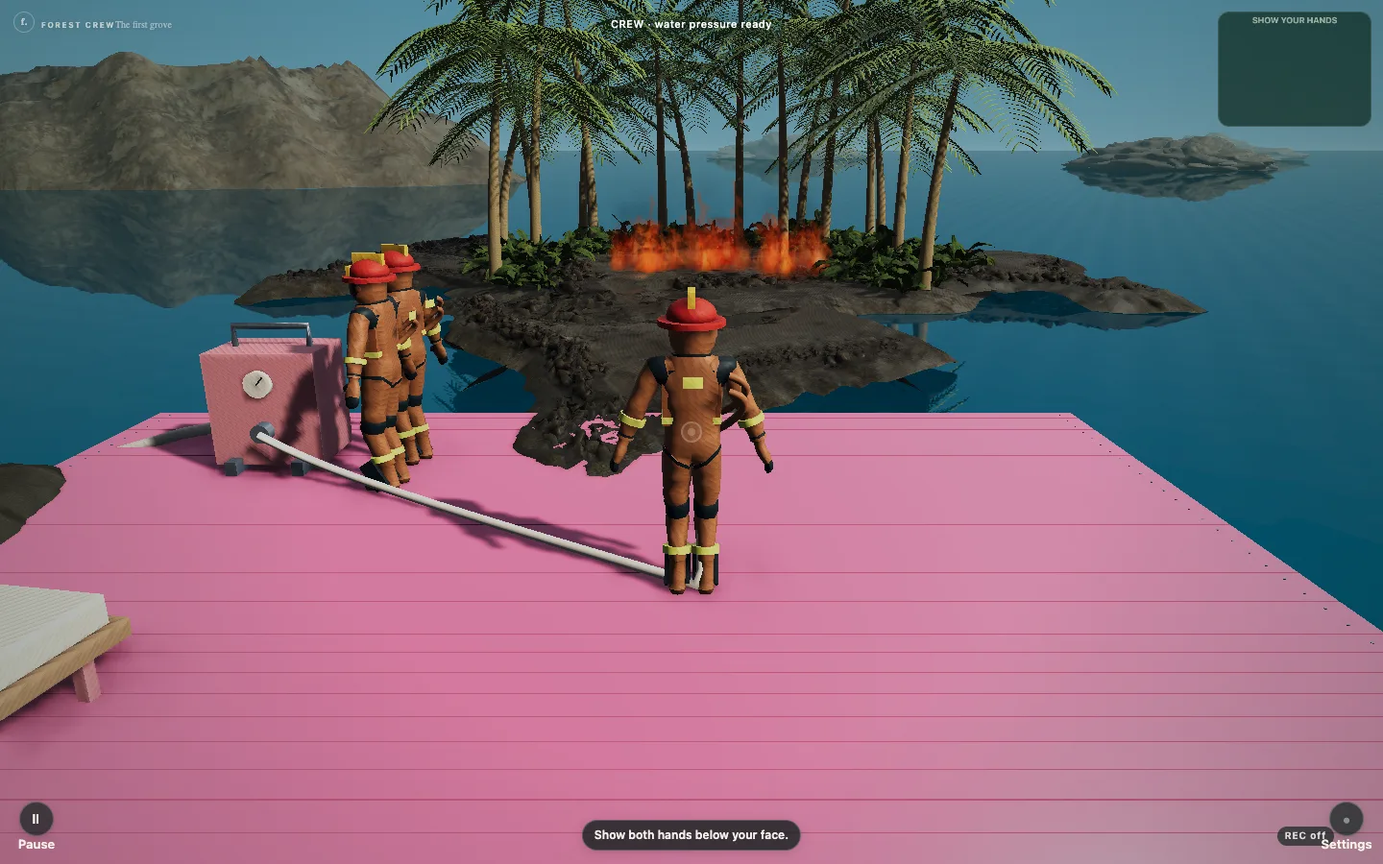
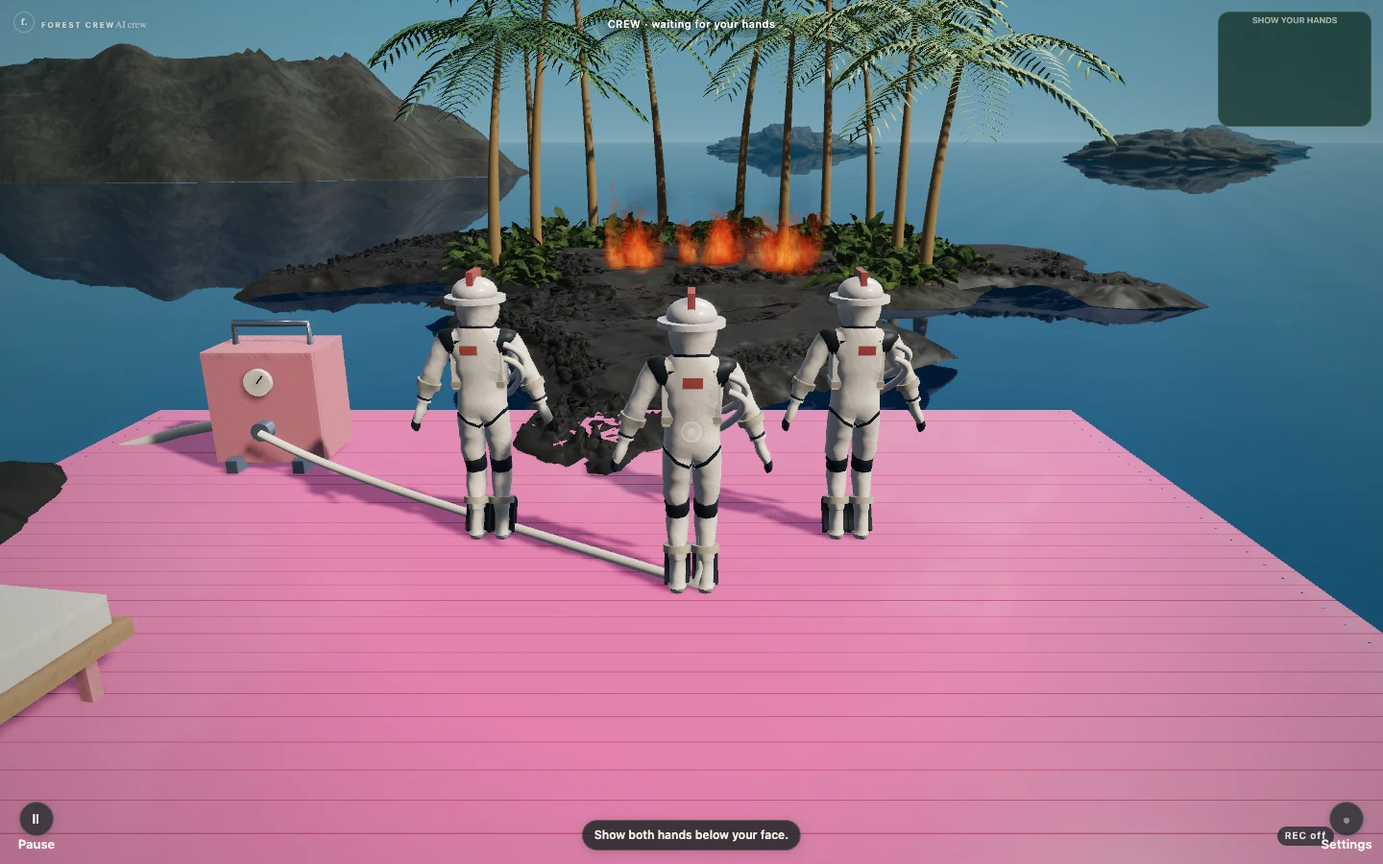
Show the waiting AI crew and publish the refined grove

diff --git a/projects-src/forest-crew/ai-crew/src/environment.ts b/projects-src/forest-crew/ai-crew/src/environment.ts
@@ -1,4 +1,4 @@
-import {Engine,Scene,Color3,Color4,Vector3,Vector4,HemisphericLight,DirectionalLight,FreeCamera,MeshBuilder,StandardMaterial,PBRMaterial,TransformNode,Mesh,VertexData,Texture,DynamicTexture,HDRCubeTexture,MirrorTexture,Plane,FresnelParameters,ShadowGenerator,DefaultRenderingPipeline,ParticleSystem,ShaderMaterial,ImportMeshAsync,Matrix,Quaternion,SSAO2RenderingPipeline} from '@babylonjs/core';
+import {Engine,Scene,Color3,Color4,Vector3,Vector4,HemisphericLight,DirectionalLight,FreeCamera,MeshBuilder,StandardMaterial,PBRMaterial,TransformNode,Mesh,VertexData,Texture,HDRCubeTexture,MirrorTexture,Plane,FresnelParameters,ShadowGenerator,DefaultRenderingPipeline,ParticleSystem,ShaderMaterial,ImportMeshAsync,Matrix,Quaternion,SSAO2RenderingPipeline} from '@babylonjs/core';
 
 import {createRenderQualityPolicy,renderQuality} from './render-quality.mjs';
 
@@ -11,23 +11,23 @@ export function createEnvironment(canvas:HTMLCanvasElement){
  const quality=()=>({...renderQuality({width:canvas.clientWidth,height:canvas.clientHeight,dpr:devicePixelRatio,mobile,maxSamples:engine.getCaps().maxMSAASamples,tier:performancePolicy.diagnostics().tier}),...performancePolicy.diagnostics()});
  engine.maxFPS=quality().maxFPS;
  engine.setHardwareScalingLevel(quality().hardwareScaling);
- const scene=new Scene(engine);scene.clearColor=new Color4(.53,.76,.82,1);
- scene.fogMode=Scene.FOGMODE_EXP2;scene.fogDensity=.0016;scene.fogColor=C('#99c4cb');
- scene.environmentTexture=new HDRCubeTexture(`${base}textures/sky.hdr`,scene,128,false,true,false,true);scene.environmentIntensity=.3;
+ const scene=new Scene(engine);scene.clearColor=new Color4(.22,.64,.86,1);
+ scene.fogMode=Scene.FOGMODE_EXP2;scene.fogDensity=.00115;scene.fogColor=C('#62b6da');
+ scene.environmentTexture=new HDRCubeTexture(`${base}textures/sky.hdr`,scene,128,false,true,false,true);scene.environmentIntensity=.48;
  const camera=new FreeCamera('embodied camera',new Vector3(0,3.4,-8.6),scene);camera.minZ=.08;camera.maxZ=1600;camera.fov=.88;camera.setTarget(new Vector3(0,1.35,0));
  const sky=MeshBuilder.CreateSphere('blue atmospheric sky',{diameter:2200,segments:32,sideOrientation:Mesh.BACKSIDE},scene);
- const skyMat=new ShaderMaterial('clear azure sky',scene,{vertexSource:`precision highp float; attribute vec3 position; uniform mat4 worldViewProjection; varying float height; void main(){height=normalize(position).y;gl_Position=worldViewProjection*vec4(position,1.0);}`,fragmentSource:`precision highp float; varying float height; void main(){float h=pow(clamp(height,0.0,1.0),0.42);vec3 horizon=vec3(0.26,0.48,0.58);vec3 zenith=vec3(0.01,0.25,0.42);gl_FragColor=vec4(mix(horizon,zenith,h),1.0);}`},{attributes:['position'],uniforms:['worldViewProjection']});skyMat.backFaceCulling=false;sky.material=skyMat;sky.isPickable=false;sky.infiniteDistance=true;sky.applyFog=false;
+ const skyMat=new ShaderMaterial('clear azure sky',scene,{vertexSource:`precision highp float; attribute vec3 position; uniform mat4 worldViewProjection; varying float height; void main(){height=normalize(position).y;gl_Position=worldViewProjection*vec4(position,1.0);}`,fragmentSource:`precision highp float; varying float height; void main(){float h=pow(clamp(height,0.0,1.0),0.42);vec3 horizon=vec3(.29,.53,.66);vec3 zenith=vec3(.012,.26,.46);gl_FragColor=vec4(mix(horizon,zenith,h),1.0);}`},{attributes:['position'],uniforms:['worldViewProjection']});skyMat.backFaceCulling=false;sky.material=skyMat;sky.isPickable=false;sky.infiniteDistance=true;sky.applyFog=false;
 
- const hemi=new HemisphericLight('blue sky fill',new Vector3(0,1,0),scene);hemi.intensity=.10;hemi.diffuse=C('#d6ecff');hemi.groundColor=C('#44443b');
- const sun=new DirectionalLight('late afternoon sun',new Vector3(-.7,-.65,.5),scene);sun.position.set(35,55,-35);sun.intensity=6.5;sun.diffuse=C('#fff0d4');sun.shadowMinZ=35;sun.shadowMaxZ=115;
- const shadows=new ShadowGenerator(2048,sun);shadows.usePercentageCloserFiltering=true;shadows.filteringQuality=ShadowGenerator.QUALITY_MEDIUM;shadows.bias=.00005;shadows.normalBias=.012;sun.autoCalcShadowZBounds=false;sun.autoUpdateExtends=false;sun.orthoLeft=-14;sun.orthoRight=44;sun.orthoTop=22;sun.orthoBottom=-34;
- const ao=quality().ambientOcclusion?new SSAO2RenderingPipeline('contact ambient occlusion',scene,{ssaoRatio:.5,blurRatio:.5},[camera]):null;if(ao){ao.radius=1.0;ao.totalStrength=1.15;ao.expensiveBlur=false;ao.samples=8;}
- const pipeline=new DefaultRenderingPipeline('filmic image',true,scene,[camera]);pipeline.samples=quality().samples;pipeline.fxaaEnabled=quality().fxaa;pipeline.bloomEnabled=true;pipeline.bloomThreshold=1.25;pipeline.bloomWeight=.12;pipeline.bloomKernel=32;pipeline.imageProcessingEnabled=true;pipeline.imageProcessing.toneMappingEnabled=true;pipeline.imageProcessing.toneMappingType=1;pipeline.imageProcessing.exposure=.95;pipeline.imageProcessing.contrast=1.15;
+ const hemi=new HemisphericLight('blue sky fill',new Vector3(0,1,0),scene);hemi.intensity=.18;hemi.diffuse=C('#d9f1ff');hemi.groundColor=C('#17313a');
+ const sun=new DirectionalLight('late afternoon sun',new Vector3(-.7,-.65,.5),scene);sun.position.set(35,55,-35);sun.intensity=5.1;sun.diffuse=C('#ffe6c2');sun.shadowMinZ=35;sun.shadowMaxZ=115;
+ const shadows=new ShadowGenerator(2048,sun);shadows.usePercentageCloserFiltering=true;shadows.filteringQuality=ShadowGenerator.QUALITY_MEDIUM;shadows.bias=.00018;shadows.normalBias=.025;sun.autoCalcShadowZBounds=false;sun.autoUpdateExtends=false;sun.orthoLeft=-14;sun.orthoRight=44;sun.orthoTop=22;sun.orthoBottom=-34;
+ const ao=quality().ambientOcclusion?new SSAO2RenderingPipeline('contact ambient occlusion',scene,{ssaoRatio:.5,blurRatio:.5},[camera]):null;if(ao){ao.radius=.7;ao.totalStrength=.7;ao.expensiveBlur=false;ao.samples=8;}
+ const pipeline=new DefaultRenderingPipeline('filmic image',true,scene,[camera]);pipeline.samples=quality().samples;pipeline.fxaaEnabled=quality().fxaa;pipeline.bloomEnabled=true;pipeline.bloomThreshold=1.18;pipeline.bloomWeight=.09;pipeline.bloomKernel=32;pipeline.imageProcessingEnabled=true;pipeline.imageProcessing.toneMappingEnabled=true;pipeline.imageProcessing.toneMappingType=1;pipeline.imageProcessing.exposure=1;pipeline.imageProcessing.contrast=1.14;
  const pbr=(name:string,color:string,rough=.6,metal=0)=>{const m=new PBRMaterial(name,scene);m.albedoColor=C(color).toLinearSpace();m.roughness=rough;m.metallic=metal;m.maxSimultaneousLights=5;return m;};
- const pink=pbr('lacquered warm pink deck','#df759c',.4),pinkEdge=pbr('pink edge fascia','#b95277',.5),ivory=pbr('warm ivory enamel','#f1e6d4',.35),chrome=pbr('brushed polished chrome','#e6eeed',.17,.9),coral=pbr('coral pump enamel','#e9979f',.28),dark=pbr('charcoal fittings','#202725',.38),leaf=pbr('palm leaf green','#668539',.58),leafLight=pbr('sunlit fronds','#809d43',.56),trunk=pbr('fibrous palm bark','#a18d65',.82);
- pink.clearCoat.isEnabled=true;pink.clearCoat.intensity=.65;pink.clearCoat.roughness=.18;leaf.backFaceCulling=false;leafLight.backFaceCulling=false;leaf.twoSidedLighting=true;leafLight.twoSidedLighting=true;
- const basalt=pbr('rough volcanic basalt','#74766f',.78);basalt.albedoTexture=new Texture(`${base}textures/basalt-color.jpg`,scene);basalt.bumpTexture=new Texture(`${base}textures/basalt-normal.jpg`,scene);basalt.bumpTexture.level=.42;
- const wetRock=basalt.clone('wet basalt shore')!;wetRock.albedoColor=C('#535954').toLinearSpace();wetRock.roughness=.26;wetRock.clearCoat.isEnabled=true;wetRock.clearCoat.intensity=.65;wetRock.clearCoat.roughness=.14;
+ const pink=pbr('lacquered warm pink deck','#f37aaa',.22),pinkEdge=pbr('pink edge fascia','#c74775',.34),ivory=pbr('warm ivory enamel','#f1e6d4',.35),chrome=pbr('brushed polished chrome','#e6eeed',.17,.9),coral=pbr('coral pump enamel','#e9979f',.28),dark=pbr('charcoal fittings','#202725',.38),leaf=pbr('palm leaf green','#477b35',.48),leafLight=pbr('sunlit fronds','#87a941',.44),trunk=pbr('fibrous palm bark','#9c8154',.72);
+ pink.clearCoat.isEnabled=true;pink.clearCoat.intensity=.9;pink.clearCoat.roughness=.1;leaf.backFaceCulling=false;leafLight.backFaceCulling=false;leaf.twoSidedLighting=true;leafLight.twoSidedLighting=true;
+ const basalt=pbr('rough volcanic basalt','#535753',.8);basalt.albedoTexture=new Texture(`${base}textures/basalt-color.jpg`,scene);basalt.bumpTexture=new Texture(`${base}textures/basalt-normal.jpg`,scene);basalt.bumpTexture.level=.28;basalt.clearCoat.isEnabled=true;basalt.clearCoat.intensity=.08;basalt.clearCoat.roughness=.45;
+ const wetRock=basalt.clone('wet basalt shore')!;wetRock.albedoColor=C('#343b3e').toLinearSpace();wetRock.roughness=.42;wetRock.clearCoat.isEnabled=true;wetRock.clearCoat.intensity=.3;wetRock.clearCoat.roughness=.28;
  const surface=basalt.clone('walkable lava')!;(surface.albedoTexture as Texture).uScale=4;(surface.albedoTexture as Texture).vScale=7;(surface.bumpTexture as Texture).uScale=4;(surface.bumpTexture as Texture).vScale=7;
  const cast=(mesh:Mesh)=>{mesh.receiveShadows=true;if(!/distant|future/.test(mesh.name))shadows.addShadowCaster(mesh);return mesh;};
  function box(name:string,w:number,h:number,d:number,p:Vector3,m:any){const x=MeshBuilder.CreateBox(name,{width:w,height:h,depth:d},scene);x.position=p;x.material=m;return cast(x);}
@@ -83,23 +83,23 @@ export function createEnvironment(canvas:HTMLCanvasElement){
   const bend=(rnd()-.5)*2.0,points=[];for(let i=0;i<=18;i++){const t=i/18;points.push(new Vector3(x+bend*t*t,h*t,z+.5*t*t));}
   const stem=MeshBuilder.CreateTube('curved palm trunk',{path:points,radiusFunction:i=>.18*(1-i/30),tessellation:12,cap:Mesh.CAP_ALL},scene);stem.material=trunk;cast(stem);colliders.push(stem);
   const top=points.at(-1)!,vertices:number[]=[],indices:number[]=[],colors:number[]=[];
-  for(let k=0;k<24;k++){
-   const a=k*2.399+rnd()*.2,dir=new Vector3(Math.cos(a),0,Math.sin(a)),side=new Vector3(-dir.z,0,dir.x),young=k<5,mature=k<17;
+  for(let k=0;k<16;k++){
+   const a=k*2.399+rnd()*.2,dir=new Vector3(Math.cos(a),0,Math.sin(a)),side=new Vector3(-dir.z,0,dir.x),young=k<3,mature=k<12;
    const L=young?1.5+rnd():2.5+rnd()*1.3,rise=young?2.1:mature?.8:-.05,droop=young?.4:mature?1.4:2.0;
    const at=(t:number)=>top.add(dir.scale(L*t)).add(new Vector3(0,rise*Math.sin(t*Math.PI*.7)-droop*t*t,0));
-   for(let j=1;j<26;j++){const t=j/27,anchor=at(t),len=(young?.32:.76)*Math.pow(Math.sin(t*Math.PI),.6)+.04;
+   for(let j=1;j<19;j++){const t=j/20,anchor=at(t),len=(young?.32:.76)*Math.pow(Math.sin(t*Math.PI),.6)+.04;
     for(const sign of [-1,1]){const index=vertices.length/3;
      const tip=anchor.add(side.scale(sign*len)).add(dir.scale(.3)).add(new Vector3(0,-.18-.12*t,0));
-     const mid=Vector3.Lerp(anchor,tip,.5).add(new Vector3(0,.055,0));const width=.068*(1-t*.5);
+     const mid=Vector3.Lerp(anchor,tip,.5).add(new Vector3(0,.055,0));const width=.085*(1-t*.5);
      const pts=[anchor.add(dir.scale(-.025)),mid.add(dir.scale(-width)),tip,mid.add(dir.scale(width)),anchor.add(dir.scale(.038)),mid.add(new Vector3(0,.022,0))];
-     for(const v of pts){vertices.push(v.x,v.y,v.z);const c=.78+rnd()*.22;colors.push(c,c,young?.5:.65,1);}
+     for(const v of pts){vertices.push(v.x,v.y,v.z);const c=.92+rnd()*.08;colors.push(c,c,young?.5:.65,1);}
      indices.push(index,index+1,index+5,index+1,index+2,index+5,index+2,index+3,index+5,index+3,index+4,index+5,index+4,index,index+5);
     }
    }
   }
   const m=new Mesh('layered coconut crown',scene),normals:number[]=[];VertexData.ComputeNormals(vertices,indices,normals);const data=new VertexData();data.positions=vertices;data.indices=indices;data.normals=normals;data.colors=colors;data.applyToMesh(m);m.material=rnd()>.4?leaf:leafLight;cast(m);
  }
- for(const [x,z,h] of [[-5,14,5.7],[-4.6,18,7.8],[-3.3,22,8.8],[-1,23,7],[1.7,24,8.5],[4.5,22,9.2],[6.1,18,6.7],[5.7,13,5.2],[2.9,20,6.5],[-5.4,23,6.6],[6.4,24,7.1],[-4,25,5],[0,25,5.8],[4,25,6],[-6,20,4.8],[6.2,21,4.5]])palm(x,z,h);
+ for(const [x,z,h] of [[-5,14,5.7],[-4.6,18,7.8],[-3.3,22,8.8],[-1,23,7],[1.7,24,8.5],[4.5,22,9.2],[6.1,18,6.7],[5.7,13,5.2],[2.9,20,6.5],[-5.4,23,6.6],[6.4,24,7.1]])palm(x,z,h);
  const assetsReady=Promise.all([
   ImportMeshAsync(`${base}models/fern-02/fern.gltf`,scene).then(result=>{
    const sources=result.meshes.filter(m=>m instanceof Mesh&&m.getTotalVertices()>0) as Mesh[];
@@ -110,22 +110,21 @@ export function createEnvironment(canvas:HTMLCanvasElement){
   }),
   ImportMeshAsync(`${base}models/coast-rocks.glb`,scene).then(result=>{
    const source=result.meshes.find(m=>m instanceof Mesh&&m.getTotalVertices()>0) as Mesh;source.setEnabled(false);
-   const mat=source.material as PBRMaterial;mat.albedoColor.set(.38,.4,.37);mat.metallic=0;mat.roughness=.8;if(mat.bumpTexture)mat.bumpTexture.level=.45;mat.clearCoat.isEnabled=true;mat.clearCoat.intensity=.16;mat.clearCoat.roughness=.4;mat.maxSimultaneousLights=5;
+   const mat=source.material as PBRMaterial;mat.albedoColor.set(.13,.15,.15);mat.metallic=0;mat.roughness=.76;if(mat.bumpTexture)mat.bumpTexture.level=.28;mat.clearCoat.isEnabled=true;mat.clearCoat.intensity=.16;mat.clearCoat.roughness=.4;mat.maxSimultaneousLights=5;
    const patches=[[-.2,.015,7,.18,.23,.33,0],[.5,.025,18,.36,.32,.48,.12],[-10,.02,-1,.18,.30,.20,.4],[8,.02,17,.18,.26,.25,-.8],[-7,.02,18,.18,.27,.25,.6]];
    for(const [x,y,z,sx,sy,sz,rot] of patches){const mesh=source.clone('scanned volcanic shelf',null)!;mesh.setEnabled(true);mesh.makeGeometryUnique();mesh.parent=null;mesh.position.set(x,y,z);mesh.scaling.set(sx,sy,sz);mesh.rotationQuaternion=Quaternion.FromEulerAngles(0,rot,0);mesh.computeWorldMatrix(true);mesh.bakeCurrentTransformIntoVertices();const pos=mesh.getVerticesData('position')!,normals=mesh.getVerticesData('normal')!;for(let i=0;i<pos.length;i+=3){const px=pos[i],pz=pos[i+2],pathClear=Math.abs(px)<2.85&&pz<13&&pz>1,groveClear=Math.hypot(px-.7,pz-18)<6.0,deckClear=px>=-7&&px<=5&&pz>=-8&&pz<=2;if(pathClear||groveClear||deckClear)pos[i+1]=Math.min(pos[i+1],-.012);}VertexData.ComputeNormals(pos,mesh.getIndices()!,normals);mesh.updateVerticesData('position',pos,true);mesh.updateVerticesData('normal',normals);mesh.receiveShadows=true;shadows.addShadowCaster(mesh);}
   })
  ]);
  const sea=MeshBuilder.CreateGround('reflective blue ocean',{width:2800,height:2800},scene);sea.position.y=-.39;sea.isPickable=false;
- const seaMat=new StandardMaterial('deep blue reflective water',scene);seaMat.diffuseColor=C('#061d2e');seaMat.specularColor=C('#e5f7ff');seaMat.specularPower=190;seaMat.disableLighting=true;seaMat.emissiveColor=C('#063951').toLinearSpace();seaMat.ambientColor=C('#020a12');
+ const seaMat=new StandardMaterial('deep blue reflective water',scene);seaMat.diffuseColor=C('#052e55');seaMat.specularColor=C('#e5f7ff');seaMat.specularPower=190;seaMat.disableLighting=true;seaMat.emissiveColor=C('#063951');seaMat.ambientColor=C('#020a12');
  const mirror=new MirrorTexture('sea reflection',quality().reflectionSize,scene,true);mirror.mirrorPlane=new Plane(0,-1,0,-.4);mirror.refreshRate=quality().reflectionRefreshRate;mirror.adaptiveBlurKernel=.4;mirror.level=.55;mirror.renderList=scene.meshes.filter(m=>m!==sea);seaMat.reflectionTexture=mirror;
  const fresnel=new FresnelParameters();fresnel.bias=.08;fresnel.power=3;fresnel.leftColor=Color3.White();fresnel.rightColor=new Color3(.08,.08,.08);seaMat.reflectionFresnelParameters=fresnel;
- const ripple=new DynamicTexture('water small ripples',256,scene,true);const rc=ripple.getContext(),id=new ImageData(256,256);for(let y=0;y<256;y++)for(let x=0;x<256;x++){const n=Math.sin(y*.6+Math.sin(x*.04)*3)+.3*Math.sin(x*.35+y*.8);const i=(y*256+x)*4;id.data[i]=128+n*12;id.data[i+1]=128+Math.cos(y*.6)*25;id.data[i+2]=252;id.data[i+3]=255;}rc.putImageData(id,0,0);ripple.update();ripple.uScale=130;ripple.vScale=130;ripple.level=.5;seaMat.bumpTexture=ripple;
  const ocean=new ShaderMaterial('sunlit rippled ocean',scene,{vertexSource:`precision highp float;attribute vec3 position;uniform mat4 world;uniform mat4 worldViewProjection;varying vec3 worldPos;varying vec4 clipPos;void main(){worldPos=(world*vec4(position,1.)).xyz;clipPos=worldViewProjection*vec4(position,1.);gl_Position=clipPos;}`,fragmentSource:`precision highp float;varying vec3 worldPos;varying vec4 clipPos;uniform sampler2D reflected;uniform vec3 eye;uniform float time;
- void main(){vec2 p=worldPos.xz;float a=sin(p.x*1.7+p.y*3.8+time*.85),b=sin(p.x*4.6-p.y*2.1-time*.62),c=sin(p.x*10.2+p.y*7.3+time*.5);vec3 n=normalize(vec3((a*.018+b*.009),1.,(b*.012+c*.005)));vec3 v=normalize(eye-worldPos);float distanceToEye=length(eye-worldPos);vec2 uv=clipPos.xy/clipPos.w*.5+.5;uv+=n.xz*.016/(1.+distanceToEye*.008);vec3 reflectedColor=texture2D(reflected,clamp(uv,vec2(.001),vec2(.999))).rgb;float f=.25+.65*pow(1.-max(dot(n,v),0.),4.);vec3 deep=mix(vec3(.006,.13,.21),vec3(.012,.24,.32),clamp(distanceToEye/160.,0.,1.));vec3 light=normalize(vec3(.7,.65,-.5));float spec=pow(max(dot(reflect(-light,n),v),0.),350.);vec3 color=mix(deep,reflectedColor*.72,f)+vec3(1.,.91,.70)*spec*2.;float ripple=.5+.5*sin(p.y*4.+sin(p.x*1.2)+time*.4);color+=vec3(.0005,.001,.0015)*ripple*max(0.,1.-distanceToEye/90.);gl_FragColor=vec4(color,1.);}`},{attributes:['position'],uniforms:['world','worldViewProjection','eye','time'],samplers:['reflected']});scene.customRenderTargets.push(mirror);ocean.setTexture('reflected',mirror);ocean.setVector3('eye',camera.position);ocean.setFloat('time',0);ocean.backFaceCulling=false;sea.material=ocean;
+ void main(){vec2 p=worldPos.xz;float a=sin(p.x*.72+p.y*1.45+time*.32),b=sin(p.x*1.9-p.y*.86-time*.27),c=sin(p.x*4.2+p.y*2.7+time*.2);vec3 n=normalize(vec3((a*.011+b*.006),1.,(b*.009+c*.003)));vec3 v=normalize(eye-worldPos);float distanceToEye=length(eye-worldPos);vec2 uv=clipPos.xy/clipPos.w*.5+.5;uv+=n.xz*.009/(1.+distanceToEye*.01);vec3 reflectedColor=texture2D(reflected,clamp(uv,vec2(.001),vec2(.999))).rgb;float f=.34+.56*pow(1.-max(dot(n,v),0.),3.5);vec3 deep=mix(vec3(.003,.06,.18),vec3(.008,.15,.3),clamp(distanceToEye/180.,0.,1.));vec3 light=normalize(vec3(.7,.65,-.5));float spec=pow(max(dot(reflect(-light,n),v),0.),280.);vec3 color=mix(deep,reflectedColor*.88,f)+vec3(1.,.78,.48)*spec*1.35;float ripple=.5+.5*sin(p.y*2.2+sin(p.x*.7)+time*.24);color+=vec3(.001,.003,.004)*ripple*max(0.,1.-distanceToEye/110.);gl_FragColor=vec4(color,1.);}`},{attributes:['position'],uniforms:['world','worldViewProjection','eye','time'],samplers:['reflected']});scene.customRenderTargets.push(mirror);ocean.setTexture('reflected',mirror);ocean.setVector3('eye',camera.position);ocean.setFloat('time',0);ocean.backFaceCulling=false;sea.material=ocean;
  function canOccupy(x:number,z:number){const deckArea=x>=-7&&x<=5&&z>=-8&&z<=2;const pathArea=Math.abs(x)<=2.65&&z>=1&&z<=13;const groveArea=Math.hypot(x-.7,z-18)<=6.3;const clearPump=Math.hypot(x+4.5,z-.1)>1.05;const clearChair=!(x< -3.65&&x> -5.7&&z> -7.1&&z< -3.7);const clearTrees=treeBases.every(p=>Math.hypot(x-p.x,z-p.z)>.3);return (deckArea||pathArea||groveArea)&&clearPump&&clearChair&&clearTrees;}
  for(const mesh of scene.meshes)mesh.freezeWorldMatrix();
  let reflectionCount=scene.meshes.length;
- function update(t:number){ocean.setFloat('time',t);ocean.setVector3('eye',camera.position);ripple.uOffset=Math.sin(t*.03)*.003;ripple.vOffset=t*.0008;if(scene.meshes.length!==reflectionCount){reflectionCount=scene.meshes.length;mirror.renderList=scene.meshes.filter(m=>m!==sea&&m.isVisible&&m.name!=='fern understory'&&m.name!=='deck fasteners'&&!m.name.startsWith('water '));}}
+ function update(t:number){ocean.setFloat('time',t);ocean.setVector3('eye',camera.position);if(scene.meshes.length!==reflectionCount){reflectionCount=scene.meshes.length;mirror.renderList=scene.meshes.filter(m=>m!==sea&&m.isVisible&&m.name!=='fern understory'&&m.name!=='deck fasteners'&&!m.name.startsWith('water '));}}
  function resize(){engine.setHardwareScalingLevel(quality().hardwareScaling);camera.fovMode=canvas.clientWidth<canvas.clientHeight?1:0;engine.resize();}
  function observePerformance(sample:{dt:number;fps:number;active:boolean}){const before=performancePolicy.diagnostics(),after=performancePolicy.observe(sample);if(after.tier!==before.tier){mirror.refreshRate=after.reflectionRefreshRate;pipeline.bloomEnabled=after.bloomEnabled;if(after.tier==='reduced-resolution'){engine.setHardwareScalingLevel(quality().hardwareScaling);engine.resize();}}return quality();}
  resize();

diff --git a/projects-src/forest-crew/ai-crew/src/astronaut-finish.ts b/projects-src/forest-crew/ai-crew/src/astronaut-finish.ts
@@ -1,7 +1,7 @@
 import {AbstractMesh,Color3,Mesh,MeshBuilder,PBRMaterial,Quaternion,TransformNode,Vector3} from '@babylonjs/core';
 
 function material(name:string,color:string,mesh:AbstractMesh){
- const result=new PBRMaterial(name,mesh.getScene());result.albedoColor=Color3.FromHexString(color).toLinearSpace();result.metallic=.02;result.roughness=.62;result.maxSimultaneousLights=5;return result;
+ const result=new PBRMaterial(name,mesh.getScene());result.albedoColor=Color3.FromHexString(color).toLinearSpace();result.metallic=.02;result.roughness=.56;result.maxSimultaneousLights=5;return result;
 }
 
 function boneNode(meshes:AbstractMesh[],name:string){
@@ -15,37 +15,48 @@ function attach(mesh:Mesh,node:TransformNode|null,position:Vector3,rotation=Vect
 
 function addFirefighterKit(meshes:AbstractMesh[]){
  const source=meshes.find(mesh=>mesh.getTotalVertices()>0);if(!source)return;
- const scene=source.getScene(),tan=material('firefighter-turnout-tan','#a9683f',source),navy=material('firefighter-protective-navy','#182b35',source),reflective=material('firefighter-reflective-fluorescent','#eef06a',source),red=material('firefighter-helmet-red','#c83d2f',source),yellow=material('firefighter-helmet-yellow','#f4bf3d',source);
+ const scene=source.getScene(),ivory=material('firefighter-turnout-ivory','#e9ded0',source),charcoal=material('firefighter-protective-charcoal','#263238',source),reflective=material('firefighter-reflective-champagne','#d6c7ad',source),helmet=material('firefighter-helmet-ivory','#eee5da',source),coral=material('firefighter-gear-coral','#b86159',source);
+ reflective.metallic=.28;reflective.roughness=.34;
+ helmet.metallic=.05;helmet.roughness=.3;helmet.clearCoat.isEnabled=true;helmet.clearCoat.intensity=.42;helmet.clearCoat.roughness=.24;
+ coral.metallic=.04;coral.roughness=.4;
  const box=(name:string,size:{width:number;height:number;depth:number},mat:PBRMaterial,node:string,at:Vector3,rotation=Vector3.Zero())=>{const part=MeshBuilder.CreateBox(name,size,scene);part.material=mat;attach(part,boneNode(meshes,node),at,rotation);};
  const cylinder=(name:string,diameter:number,height:number,mat:PBRMaterial,node:string,at:Vector3,rotation=Vector3.Zero())=>{const part=MeshBuilder.CreateCylinder(name,{diameter,height,tessellation:24},scene);part.material=mat;attach(part,boneNode(meshes,node),at,rotation);};
  // A compact coat shell and real raised pockets make the base suit read as turnout gear.
- box('turnout-coat-body',{width:.43,height:.34,depth:.25},tan,'Spine1',new Vector3(0,.055,.018));
- box('turnout-collar',{width:.34,height:.075,depth:.27},navy,'Spine2',new Vector3(0,.105,.015));
- box('turnout-pocket-left',{width:.14,height:.1,depth:.055},tan,'Spine1',new Vector3(-.115,-.055,.145));
- box('turnout-pocket-right',{width:.14,height:.1,depth:.055},tan,'Spine1',new Vector3(.115,-.055,.145));
+ box('turnout-coat-body',{width:.43,height:.34,depth:.25},ivory,'Spine1',new Vector3(0,.055,.018));
+ box('turnout-collar',{width:.34,height:.075,depth:.27},charcoal,'Spine2',new Vector3(0,.105,.015));
+ box('turnout-pocket-left',{width:.14,height:.1,depth:.055},coral,'Spine1',new Vector3(-.115,-.055,.145));
+ box('turnout-pocket-right',{width:.14,height:.1,depth:.055},coral,'Spine1',new Vector3(.115,-.055,.145));
  box('turnout-coat-reflective-band',{width:.445,height:.052,depth:.267},reflective,'Spine1',new Vector3(0,-.07,.018));
  for(const side of ['Left','Right']){
   cylinder(`${side.toLowerCase()}-sleeve-reflective-band`,.205,.052,reflective,`${side}ForeArm`,new Vector3(0,.11,0));
   cylinder(`${side.toLowerCase()}-trouser-reflective-band`,.225,.06,reflective,`${side}Leg`,new Vector3(0,.32,0));
-  box(`${side.toLowerCase()}-protective-boot`,{width:.205,height:.16,depth:.31},navy,`${side}Foot`,new Vector3(0,.07,.075),new Vector3(.18,0,0));
+  box(`${side.toLowerCase()}-protective-boot`,{width:.205,height:.16,depth:.31},charcoal,`${side}Foot`,new Vector3(0,.07,.075),new Vector3(.18,0,0));
  }
  // Broad brim, domed crown and raised crest retain an astronaut-firefighter silhouette.
- cylinder('helmet-brim',.5,.045,red,'Head',new Vector3(0,.255,.015));
- const crown=MeshBuilder.CreateSphere('helmet-crown',{diameter:.37,segments:24},scene);crown.material=red;crown.scaling.set(1,.68,1);attach(crown,boneNode(meshes,'Head'),new Vector3(0,.31,.005));
- box('helmet-crest',{width:.055,height:.16,depth:.31},yellow,'Head',new Vector3(0,.41,.005));
- box('helmet-front-shield',{width:.16,height:.13,depth:.035},yellow,'Head',new Vector3(0,.305,.195),new Vector3(-.08,0,0));
+ cylinder('helmet-brim',.5,.045,helmet,'Head',new Vector3(0,.255,.015));
+ const crown=MeshBuilder.CreateSphere('helmet-crown',{diameter:.37,segments:24},scene);crown.material=helmet;crown.scaling.set(1,.68,1);attach(crown,boneNode(meshes,'Head'),new Vector3(0,.31,.005));
+ box('helmet-crest',{width:.055,height:.16,depth:.31},coral,'Head',new Vector3(0,.41,.005));
+ box('helmet-front-shield',{width:.16,height:.13,depth:.035},coral,'Head',new Vector3(0,.305,.195),new Vector3(-.08,0,0));
 }
 
 /** Preserve the existing rig and silhouettes; soften split surface normals and finish the suit. */
 export function finishAstronaut(meshes:AbstractMesh[]){
+ const finishes=new Map<PBRMaterial,PBRMaterial>();
  for(const mesh of meshes){
-  const mat=mesh.material;
+ let mat=mesh.material;
   if(mat instanceof PBRMaterial){
-   if(mat.name==='white'){mat.albedoColor=Color3.FromHexString('#ad7048').toLinearSpace();mat.metallic=0;mat.roughness=.62;}
-   if(mat.name==='gray'){mat.albedoColor=Color3.FromHexString('#1d3139').toLinearSpace();mat.metallic=.02;mat.roughness=.58;}
-   if(mat.name==='flag'){mat.albedoTexture=null;mat.albedoColor=Color3.FromHexString('#eef06a').toLinearSpace();mat.metallic=0;mat.roughness=.55;}
-   if(mat.name==='transparent_mask'){mat.albedoColor=Color3.FromHexString('#68473a').toLinearSpace();mat.metallic=.8;mat.roughness=.16;mat.clearCoat.isEnabled=true;}
-   mat.maxSimultaneousLights=5;
+   const originalName=mat.name;
+   let finished:PBRMaterial=mat;
+   if(['white','gray','flag','transparent_mask'].includes(originalName)){
+    let avatarMat=finishes.get(mat);
+    if(!avatarMat){avatarMat=mat.clone(`firefighter-turnout-${originalName}`) as PBRMaterial;finishes.set(mat,avatarMat);}
+    mesh.material=avatarMat;finished=avatarMat;
+   }
+   if(originalName==='white'){finished.albedoColor=Color3.FromHexString('#e8ddd0').toLinearSpace();finished.metallic=.01;finished.roughness=.5;}
+   if(originalName==='gray'){finished.albedoColor=Color3.FromHexString('#28343a').toLinearSpace();finished.metallic=.04;finished.roughness=.5;}
+   if(originalName==='flag'){finished.albedoTexture=null;finished.albedoColor=Color3.FromHexString('#b86159').toLinearSpace();finished.metallic=.02;finished.roughness=.42;}
+   if(originalName==='transparent_mask'){finished.albedoColor=Color3.FromHexString('#665750').toLinearSpace();finished.metallic=.55;finished.roughness=.2;finished.clearCoat.isEnabled=true;finished.clearCoat.intensity=.55;finished.clearCoat.roughness=.18;}
+   finished.maxSimultaneousLights=5;
   }
   const positions=mesh.getVerticesData('position'),normals=mesh.getVerticesData('normal');if(!positions||!normals)continue;
   const groups=new Map<string,number[]>();

diff --git a/projects-src/forest-crew/ai-crew/src/crew-client.ts b/projects-src/forest-crew/ai-crew/src/crew-client.ts
@@ -1,5 +1,5 @@
 type PlayerFrame={active:boolean;spraying:boolean;progress:number;complete:boolean};
-type CrewStatus={authenticated?:boolean;ready?:boolean;localOnly?:boolean};
+type CrewStatus={authenticated?:boolean;ready?:boolean;localOnly?:boolean;roster?:any[]};
 type CrewClientOptions={invite?:string|null};
 
 const API_BASE=(import.meta.env.VITE_CREW_API_BASE||'/api/crew').replace(/\/+$/,'');
@@ -11,6 +11,7 @@ class CrewHttpError extends Error{
 /** Optional local or hosted crew mode. No network or model work runs in the render loop. */
 export function createCrewClient({invite=null}:CrewClientOptions={}){
  let snapshot:any=null,starting=false,started=false,stopped=false,pending=false,resetting=false,lastPoll=0,lastReceived=0,generation=0,disposed=false;
+ let waitingCrew:any=null;
  let access:'checking'|'ready'|'denied'|'offline'='checking';
  let startRequest:Promise<unknown>|null=null;
  const notice=document.createElement('div');notice.className='crew-status';notice.setAttribute('role','status');notice.textContent='AI CREW · checking access';document.body.append(notice);
@@ -30,10 +31,12 @@ export function createCrewClient({invite=null}:CrewClientOptions={}){
   try{
    if(invite)await post('access',{invite});
    invite=null;
-   const status=await request('status') as CrewStatus;
+   let status=await request('status') as CrewStatus;
+   for(let attempt=0;!disposed&&!status.ready&&(status.localOnly||status.authenticated)&&attempt<10;attempt++){say('CREW · waking up the crew bridge…');await new Promise(resolve=>setTimeout(resolve,1000));if(disposed)return;status=await request('status') as CrewStatus;}
    if(disposed)return;
    if(!status.localOnly&&!status.authenticated){access='denied';say('AI CREW · invitation required');return;}
    if(!status.ready){access='offline';say('AI CREW OFFLINE · service is unavailable');return;}
+   waitingCrew=Array.isArray(status.roster)?{status:'waiting-for-hands',preview:true,pressure:0,actors:status.roster}:null;
    access='ready';if(!resetting)stopped=false;say('CREW · waiting for your hands');
   }catch(error){
    invite=null;
@@ -51,6 +54,6 @@ export function createCrewClient({invite=null}:CrewClientOptions={}){
    say(s.status==='stopped'?'CREW · session ended':s.error?'CREW · teammate unavailable':s.pressure?'CREW · water pressure ready':message?`CREW · ${String(message.text).slice(0,140)}`:'CREW · setting up your water supply…');
   }).catch(error=>{if(current===generation){lastReceived=Number.NEGATIVE_INFINITY;say(explain(error,'connection'));}}).finally(()=>{if(current===generation)pending=false;});
  }
- return {update,async reset(){const current=++generation,needsStop=started||starting||!!startRequest;resetting=true;stopped=true;try{await startRequest;if(needsStop)await post('stop',{});}catch{}if(current!==generation)return;started=false;starting=false;pending=false;snapshot=null;startRequest=null;lastReceived=Number.NEGATIVE_INFINITY;resetting=false;stopped=access!=='ready';if(access==='ready')say('CREW · waiting for your hands');},snapshot:()=>snapshot,telemetry:()=>snapshot?{id:snapshot.id,status:snapshot.status,pressure:snapshot.pressure,actors:(snapshot.actors??[]).map((a:any)=>({id:a.id,model:a.model,position:a.position,activity:a.activity,decisions:a.decisions}))}:null,pressure:()=>access==='ready'&&performance.now()-lastReceived<2000?(snapshot?.pressure??0):0,
+ return {update,async reset(){const current=++generation,needsStop=started||starting||!!startRequest;resetting=true;stopped=true;try{await startRequest;if(needsStop)await post('stop',{});}catch{}if(current!==generation)return;started=false;starting=false;pending=false;snapshot=null;startRequest=null;lastReceived=Number.NEGATIVE_INFINITY;resetting=false;stopped=access!=='ready';if(access==='ready')say('CREW · waiting for your hands');},snapshot:()=>snapshot,visualSnapshot:()=>snapshot??(access==='ready'?waitingCrew:null),telemetry:()=>snapshot?{id:snapshot.id,status:snapshot.status,pressure:snapshot.pressure,actors:(snapshot.actors??[]).map((a:any)=>({id:a.id,model:a.model,position:a.position,activity:a.activity,decisions:a.decisions}))}:null,pressure:()=>access==='ready'&&performance.now()-lastReceived<2000?(snapshot?.pressure??0):0,
   dispose(){generation++;disposed=true;stopped=true;invite=null;notice.remove();const stop=()=>fetch(`${API_BASE}/stop`,{method:'POST',credentials:'same-origin',headers:{'Content-Type':'application/json','X-Forest-Crew':'1'},body:'{}',keepalive:true}).catch(()=>{});if(started||starting||startRequest)void Promise.resolve(startRequest).then(stop,stop);void bootstrap.catch(()=>{});}};
 }

diff --git a/projects-src/forest-crew/ai-crew/src/main.ts b/projects-src/forest-crew/ai-crew/src/main.ts
@@ -21,8 +21,9 @@ const movement=createLocomotion(env.scene,env.camera,env.colliders,env.spawn,env
 let input:ReturnType<typeof createInputRuntime>;
 const fire=createFireSimulation({onEvent:(type:string,data:any)=>input?.record(type,data)} as any);
 const effects=createFireEffects(env.scene);
-const crew=(params.get('crew')==='1'||import.meta.env.VITE_CREW_DEFAULT==='1')&&!sceneReview?createCrewClient({invite:crewInvite}):null;
+const crew=params.get('crew')!=='0'&&(params.get('crew')==='1'||import.meta.env.VITE_CREW_DEFAULT==='1')&&!sceneReview?createCrewClient({invite:crewInvite}):null;
 crewInvite=null;
+if(crew){document.title='Forest Crew · AI crew';const chapter=document.querySelector('.chapter');if(chapter)chapter.textContent='AI crew';}
 let crewVisuals:Awaited<ReturnType<typeof import('./crew-visuals').createCrewVisuals>>|null=null;
 if(crew)void import('./crew-visuals').then(async({createCrewVisuals})=>{crewVisuals=createCrewVisuals(env.scene,env.shadows);await crewVisuals.ready;}).catch(()=>console.error('Crew visuals unavailable'));
 const playerHeat=createPlayerHeat({onEvent:(type:string,data:any)=>input?.record(type,data)});
@@ -71,7 +72,7 @@ function renderFrame(){
  const origin=Vector3.TransformCoordinates(new Vector3(HOSE_ANCHOR.x,HOSE_ANCHOR.y,HOSE_ANCHOR.z+.22),movement.player.getWorldMatrix());
  let impact=qaOverride?.impact?new Vector3(qaOverride.impact.x,.03,qaOverride.impact.z):impactAt(frame.aim,origin);
  crew?.update(now,{active:frame.active&&!sceneReview,spraying:frame.spraying,progress:fire.snapshot().progress,complete:fire.snapshot().complete});
- crewVisuals?.update(dt,crew?.snapshot());
+ crewVisuals?.update(dt,crew?.visualSnapshot());
  const pressure=crew?crew.pressure():1;
  const spraying=frame.spraying&&!sceneReview&&pressure>0;
  input.setHoseFeedback(frame.mode!=='hose'?'':pressure<=0?'Waiting for water pressure':!impact?'Aim lower or walk closer':'');
@@ -97,7 +98,7 @@ function syncRendering(){
 }
 document.addEventListener('visibilitychange',syncRendering);
 syncRendering();
-void Promise.all([movement.ready,env.assetsReady]).then(async()=>{finishAstronaut(movement.player.getChildMeshes());for(const mat of env.scene.materials){if(mat instanceof PBRMaterial&&(mat.name==='white'||mat.name.startsWith('firefighter-turnout'))){sootMaterials.push({material:mat,color:mat.albedoColor.clone()});}}for(const mesh of movement.player.getChildMeshes()){mesh.receiveShadows=true;env.shadows.addShadowCaster(mesh);}ready=true;await env.scene.whenReadyAsync();$('loading').hidden=true;if(sceneReview)env.setEstablishingView();else await input.start();}).catch(error=>{$('loading').hidden=false;$('load-message').textContent=`Could not start: ${String(error)}`;console.error(error);});
+void Promise.all([movement.ready,env.assetsReady]).then(async()=>{finishAstronaut(movement.player.getChildMeshes());for(const mat of env.scene.materials){if(mat instanceof PBRMaterial&&(mat.name==='white'||mat.name.startsWith('firefighter-turnout'))){sootMaterials.push({material:mat,color:mat.albedoColor.clone()});}}for(const mesh of movement.player.getChildMeshes()){mesh.receiveShadows=true;env.shadows.addShadowCaster(mesh);}ready=true;await env.scene.whenReadyAsync();$('loading').hidden=true;if(sceneReview)env.setEstablishingView();else await input.start().catch(()=>{/* Input reports camera setup errors; keep the world and waiting crew visible. */});}).catch(error=>{$('loading').hidden=false;$('load-message').textContent=`Could not start: ${String(error)}`;console.error(error);});
 window.addEventListener('resize',()=>env.resize());
 window.addEventListener('pagehide',()=>{disposed=true;document.removeEventListener('visibilitychange',syncRendering);env.engine.stopRenderLoop(renderFrame);crew?.dispose();crewVisuals?.dispose();input.dispose();effects.dispose();movement.dispose();env.dispose();});
 if(qa){(window as any).__forestQA={ready:()=>ready,snapshot:()=>latestState,avatar:()=>movement.avatar.modelStatus(),input:()=>input.diagnostics(),reset,override:(value:any)=>{qaOverride=value;},clear:()=>{qaOverride=null;},aimFor:(x:number,z:number)=>{const point=Vector3.Project(new Vector3(x,.03,z),Matrix.Identity(),env.scene.getTransformMatrix(),env.camera.viewport.toGlobal(env.engine.getRenderWidth(),env.engine.getRenderHeight()));return {x:point.x/env.engine.getRenderWidth(),y:point.y/env.engine.getRenderHeight()};},scene:env.scene,renderSize:()=>({width:env.engine.getRenderWidth(),height:env.engine.getRenderHeight()})};}

diff --git a/projects-src/forest-crew/ai-crew/src/input-runtime.ts b/projects-src/forest-crew/ai-crew/src/input-runtime.ts
@@ -19,7 +19,8 @@ type InputPreference=InputMode|'auto';
 type InputFrame={active:boolean;forward:number;turn:number;headingTarget?:number|null;gait:any;mode:Mode;aim:{x:number;y:number};spraying:boolean};
 type Options={canvas:HTMLCanvasElement;container:HTMLElement;getHeading:()=>number;onEvent?:(type:string,data:any)=>void};
 
-const CREW_MODE=new URLSearchParams(location.search).get('crew')==='1'||import.meta.env.VITE_CREW_DEFAULT==='1';
+const crewParameter=new URLSearchParams(location.search).get('crew');
+const CREW_MODE=crewParameter!=='0'&&(crewParameter==='1'||import.meta.env.VITE_CREW_DEFAULT==='1');
 const BUILD_ID=CREW_MODE?'ai-crew':'grove-01',SCENARIO=CREW_MODE?'agent-supply':'hose-baseline',STALE_MS=220,ONE_HAND_STALE_MS=450;
 const clamp=(value:number)=>Math.max(0,Math.min(1,value));
 const emptyGait=()=>({left:0,right:0,leftLift:0,rightLift:0,stride:0,cadence:0,run:0});
@@ -73,7 +74,7 @@ export function createInputRuntime({canvas,container,getHeading,onEvent}:Options
 
  const qaMode=new URLSearchParams(location.search).get('qa')==='1';
  const criticalEvents=new Set(['complete','extinguish','gesture-select','calibrated','focus','reset','camera-error','tracker-error']);
- const emit=(type:string,data:any={})=>{const payload={version:'0.2.3',buildId:BUILD_ID,scenario:SCENARIO,fixture:qaMode,inputSource:qaInjected?'sampled-hand-fixture':'camera',...data};playtest.record(type,payload);const now=performance.now();if(playtest.state==='recording'&&(criticalEvents.has(type)||now-lastFlush>=1200)){lastFlush=now;void playtest.flushTelemetry();}onEvent?.(type,payload);};
+ const emit=(type:string,data:any={})=>{const payload={version:'0.2.4',buildId:BUILD_ID,scenario:SCENARIO,fixture:qaMode,inputSource:qaInjected?'sampled-hand-fixture':'camera',...data};playtest.record(type,payload);const now=performance.now();if(playtest.state==='recording'&&(criticalEvents.has(type)||now-lastFlush>=1200)){lastFlush=now;void playtest.flushTelemetry();}onEvent?.(type,payload);};
  const recorder=new CompactRecorder({world:canvas,camera:video,session:()=>playtest.session,startedAt:()=>playtest.started,record:emit,uploadClip:(blob,startMs,endMs)=>playtest.uploadClip(blob,startMs,endMs),publicMode:true,captureWidth:480,captureHeight:270,captureFrameRate:5,videoBitsPerSecond:220000,overlay:()=>({phase:lastFrameState.mode,reason:lastFrameState.spraying?'spraying':inputMode==='one-hand'?oneHand.diagnostics(performance.now()).decision:lastFrameState.active?'moving':'idle',choice:uiTarget?.dataset.action||'',dwell:uiTarget?clamp((performance.now()-uiTargetSince)/900):0,cursorX:lastPointer.x,cursorY:lastPointer.y,cursorVisible:true,cursorTracked:pointerTracked}),onStatus:(state,detail)=>{if(state==='error'){recordingError=detail;recorder.setEnabled(false);playtest.fail(detail);}updateRecordingStatus(playtest);}});
 
  function updateRecordingStatus(snapshot:any){

diff --git a/content/projects/forest-crew-ai-crew.md b/content/projects/forest-crew-ai-crew.md
@@ -17,7 +17,7 @@ Two model-driven firefighters work alongside the player in the same pink-deck vo
 
 ![In-engine capture from the local AI crew test](/images/making/forest-crew-ai-crew.webp)
 
-**The hosted AI crew is an invitation-only demo.** Two Sol teammates run on the owner’s server and use the owner’s Codex account. Show your hands to start after opening a private invitation link. Only one crew session can run at a time, with a daily session limit. The [public Grove 01 game](/making/forest-crew-grove-01/) remains the stable gesture playtest without model actors.
+**The hosted AI crew is an invitation-only demo.** Two Sol teammates run on the owner’s server and use the owner’s Codex account. The waiting crew appears beside you after opening a private invitation link. Show your hands to begin their work. Only one crew session can run at a time, with a daily session limit. The [public Grove 01 game](/making/forest-crew-grove-01/) remains the stable gesture playtest without model actors.
 
 [Get the code and contribute on GitHub](https://github.com/seahyc/forest-crew)
 
